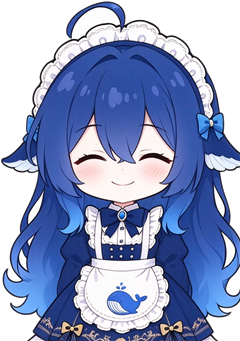
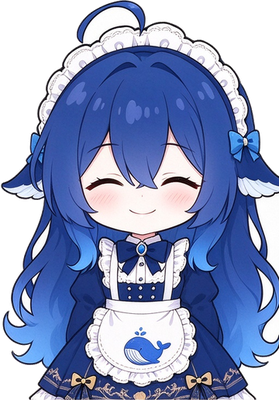
release: dsh小助手 0.47.6

diff --git a/client.js b/client.js
@@ -20,7 +20,7 @@ window.__ModuleLoader__.load({
 
     const API = '/api/dsh-xiaozhushou'
     // 换图片时只改这个版本号，浏览器就不会吃旧缓存（不用重启）
-    const ASSET_V = 'r20261026a'
+    const ASSET_V = 'r20261028b'
     let workspaceNavigation = null
     const PET_HIDDEN_KEY = 'steward-pet-hidden'
     const PET_VIS_EVENT = 'steward-pet-visibility'

diff --git a/index.js b/index.js
@@ -51,7 +51,7 @@ import { createHistorianSchedule } from './core/historian-schedule.js'
 export const inject = ['webServer']
 
 // 版本号单一来源（守卫测试会校验它与 package.json 一致）
-const VERSION = '0.47.5'
+const VERSION = '0.47.6'
 
 function readBoardTasks(storeRef) {
   try {

diff --git a/README.md b/README.md
@@ -9,11 +9,9 @@
 ![platform](https://img.shields.io/badge/platform-Windows%2010%2F11-blue)
 ![zero dependencies](https://img.shields.io/badge/npm%20deps-0-brightgreen)
 
-| 收起态（只剩鲸鱼娘） | 鲸鱼娘形象 |
-|---|---|
-| ![收起态](docs/screenshots/overlay.png) | ![鲸鱼娘](docs/screenshots/mascot.png) |
+![dsh小助手工作看板与三角色对话](docs/screenshots/board-full.png)
 
-> 截图为界面示意，数据为演示内容。
+> 截图为演示数据，不含真实任务与对话。
 
 ## 给谁用
 
@@ -21,9 +19,21 @@
 
 它把待办、优先级、提醒和任务收在一处；屏幕边的鲸鱼娘随时能喊出来，秘书、CEO、史官陪你聊、帮你判断、替你记录。所有数据都留在你自己电脑上。
 
+## 最短路径（不会编程也能用）
+
+1. 打开 DSH 的**插件**页，添加插件，输入 `dsh-xiaozhushou`，安装源选**官方源**；
+2. 装完重启 DSH，点侧栏的 **dsh小助手**；
+3. 在秘书框说一句：**记一下：周五前交周报**；
+4. 看板里出现待办后，点 **确认**；
+5. 之后每天打开看板看优先级，鲸鱼娘会在屏幕边提醒你；需要判断时对 CEO 说话即可。
+
+不需要记命令、不需要改配置；下面的安装方式只是给愿意用命令行的人备用。
+
 ## 亮点：鲸鱼娘不是装饰
 
 她常驻屏幕边，收起时只剩形象；点开是浮窗，直接显示最急的事和待办。可以拖到顺手的位置，右键隐藏或唤回；不想开整页看板时，点一下就能记一条、看今天最该干什么。
+
+![鲸鱼娘表情集](docs/screenshots/whale-expressions.png)
 
 鲸鱼娘形象已经约了专业画师绘制，完整版浮窗 pet 正在制作，完成后上线；现在这版先用现有形象顶着。
 
@@ -87,14 +97,14 @@ target = <本仓库绝对路径或 tgz 路径>
 > `--profile` 后面换成你自己的 profile 名（`web` / `desktop` / …）。
 > 卸载：`dsh plugin --profile web remove dsh-xiaozhushou`（桌面版把 `web` 换成 `desktop`）。**卸载不删数据。**
 
-## 5 分钟上手
+## 日常操作（会打字就行）
 
-1. 点侧栏 **dsh小助手** 图标 → 打开看板；
-2. 在秘书框里说「**记一下：周五前交周报**」→ 待办台账里出现一条候选；
-3. 说「**确认 T-001 周五 紧急 重要**」→ 进入已确认，开始参与提醒与优先级；
-4. 说「**问一下 CEO 这周先干哪件**」→ 生成任务 `K-xxx`；CEO 会直接接下/完成/归档/存为记忆（按任务号说或让它自己判断）；
-5. 对 CEO 说「**开新会话执行 整理三季度材料**」→ 真的开一个 CEO 预设会话（标题 `dsh小助手 · CEO 执行`），任务写进第一句，权限审批在该会话里弹；
-6. 右键右下角鲸鱼娘 → 刷新 / 唤出 / 隐藏。
+1. 点侧栏 **dsh小助手** → 打开看板；
+2. 在秘书框里说「**记一下：周五前交周报**」→ 待办里出现一条候选；
+3. 点待办上的 **确认**，或对秘书说「**确认这条**」→ 开始参与提醒与优先级；
+4. 想判断先干哪件，点「**问 CEO**」或对 CEO 说「**这周先干哪件**」；
+5. 要开新任务会话，明确说「**开个任务会话：整理三季度材料**」→ 新会话标题是 `CEO · 整理三季度材料`，模糊指令不会自动新建；
+6. 右键屏幕边的鲸鱼娘 → 刷新 / 唤出 / 隐藏。
 
 ## 数据与隐私
 

diff --git a/CHANGELOG.md b/CHANGELOG.md
@@ -3,6 +3,14 @@
 本文件只记**用户可见**的变更，格式参考 [Keep a Changelog](https://keepachangelog.com/zh-CN/1.1.0/)，
 版本号遵循 [SemVer](https://semver.org/lang/zh-CN/)。内部重构只写一行摘要，不写逐文件清单。
 
+## [0.47.6] - 2026-10-28
+
+### Changed
+
+- 鲸鱼娘换用豆包生成的完整形象：新的 pet/tail 资源、六种表情展示。
+- README 顶部换成完整看板演示图（演示数据、假对话），补充不会编程用户的最短上手路径。
+- 修正 README 中旧的任务会话标题示例为「CEO · 任务名」。
+
 ## [0.47.5] - 2026-10-28
 
 ### Added
